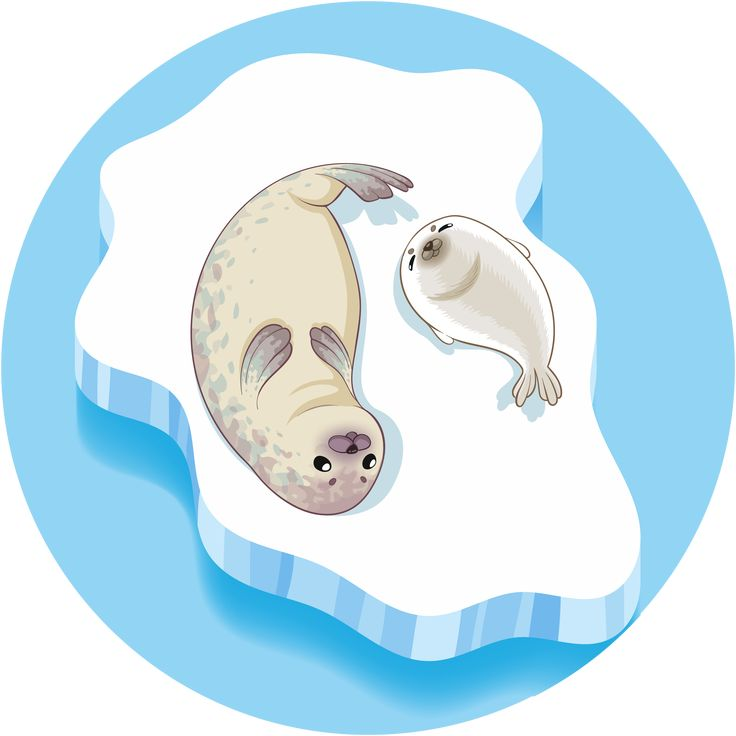
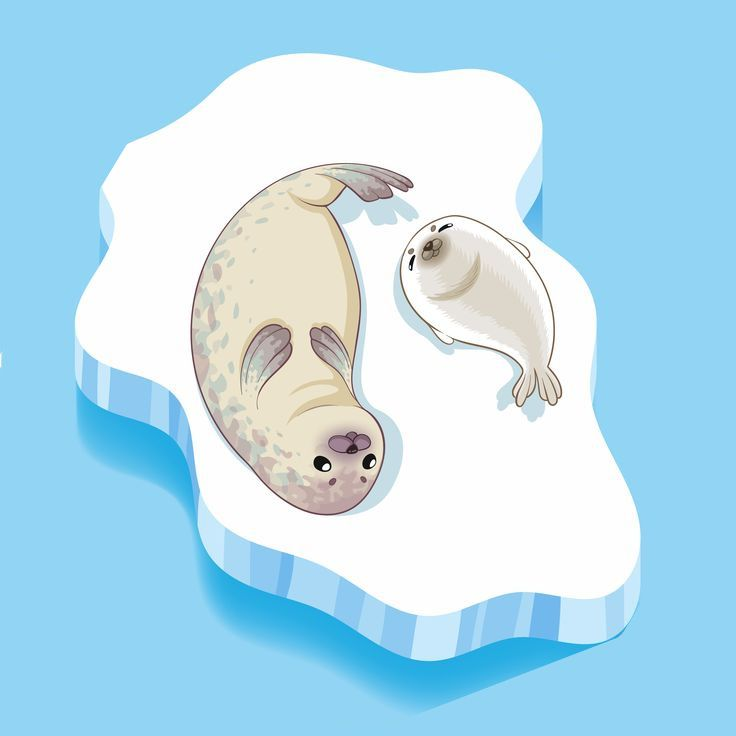
pup care fixed
aaa

diff --git a/index.html b/index.html
@@ -131,7 +131,7 @@
           </div>
         </div>
         <div class="card">
-          <figure><img src="images/seal-pup.jpg" alt="Seal pup" /></figure>
+          <figure><img src="images/seal-pup.jpg" alt="Seal pup" class="seal-pup-img" /></figure>
           <div class="card-body">
             <h3>Pup Care</h3>
             <p>Ice or beaches are vital nurseries for pups to develop.</p>
